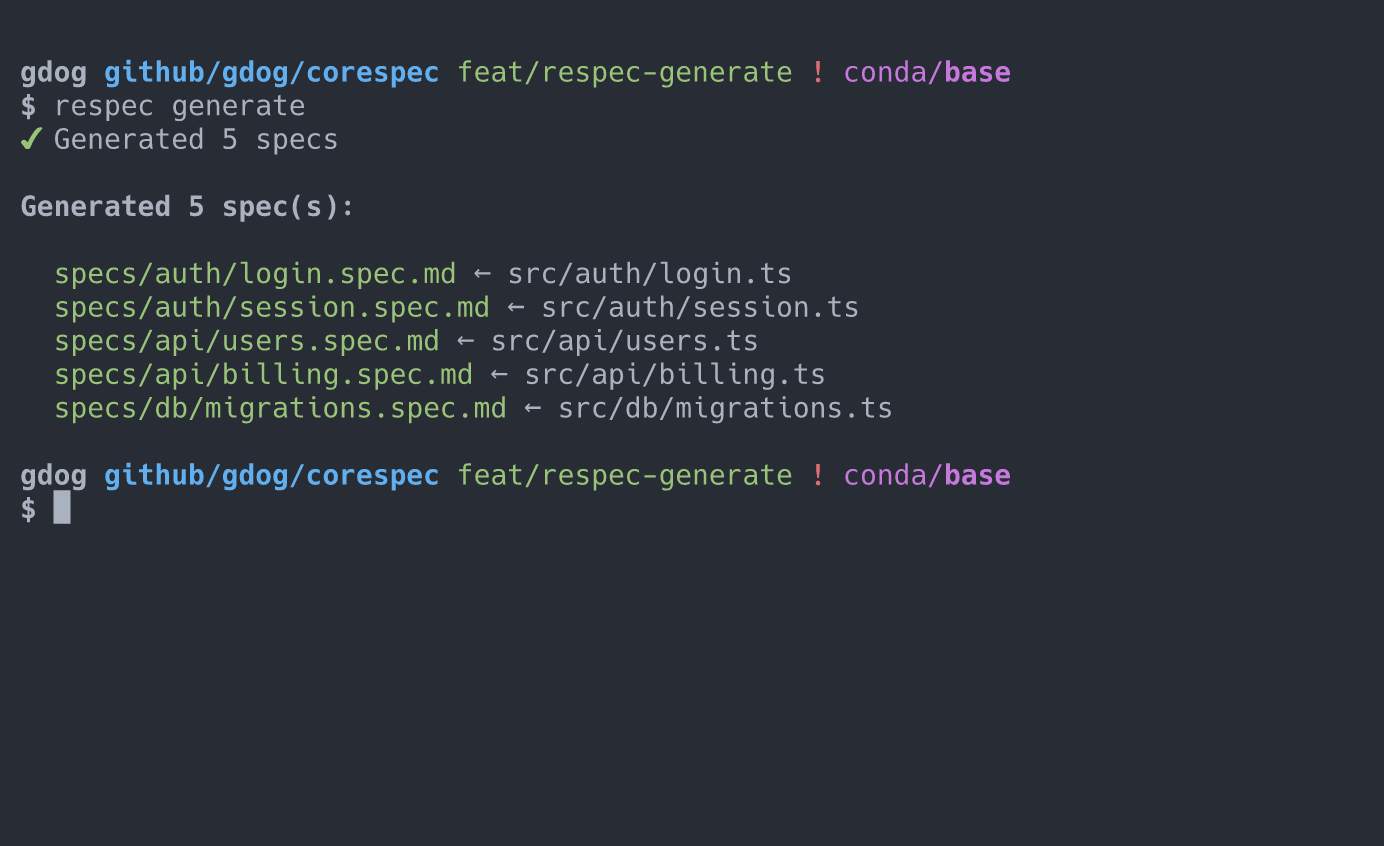
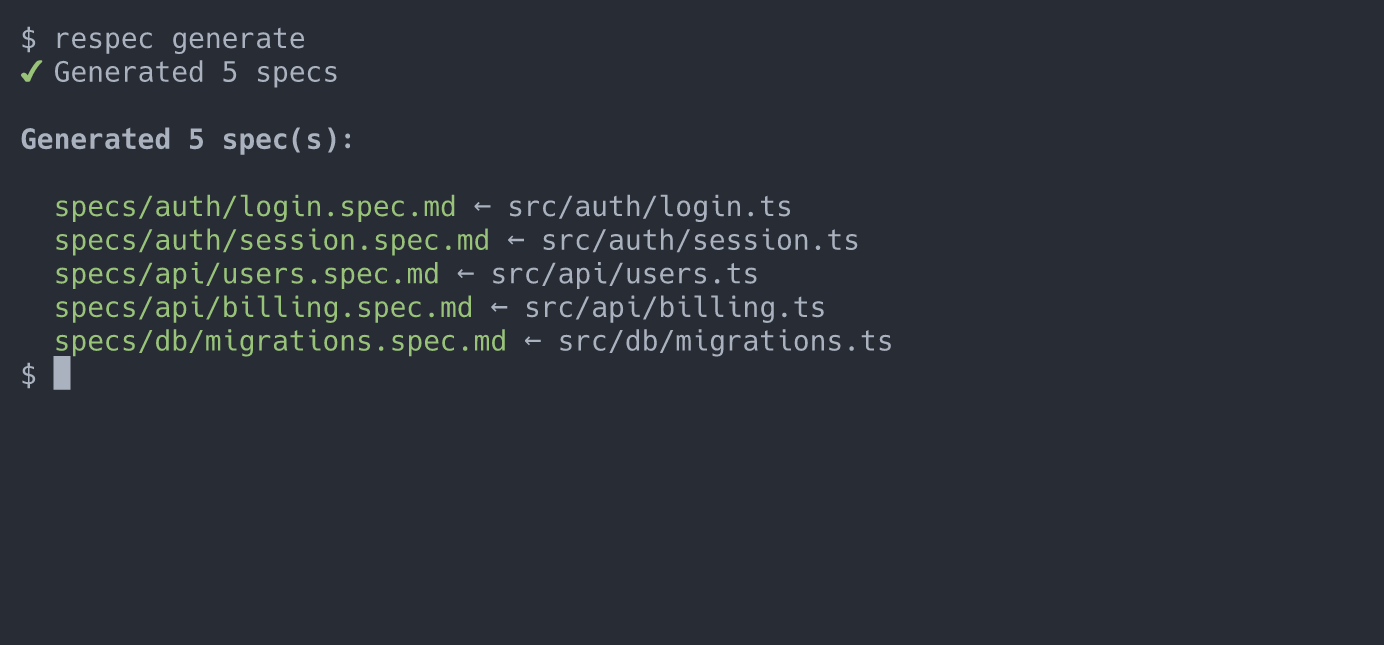
fix: strip markdown fences from LLM JSON responses, update screenshots
- judge-framework and judge-diff now strip ```json fences before parsing
  (Haiku wraps JSON despite prompt instructions)
- Retake CLI screenshots with clean `$ ` prompt (no pwd/git clutter)
- Add shellwright screenshot conventions to CLAUDE.md

Changed region(s): [[0.0, 0.3101, 0.7457, 0.6202], [0.0, 0.031, 0.7457, 0.2791]]

diff --git a/packages/corespec/src/tools/judge-framework.ts b/packages/corespec/src/tools/judge-framework.ts
@@ -34,7 +34,8 @@ export async function judgeFramework(
   config: ModelConfig,
 ): Promise<FrameworkJudgment> {
   const prompt = buildPrompt(checkResult);
-  const response = await callLLM(config, prompt);
+  const raw = await callLLM(config, prompt);
+  const response = raw.replace(/^```(?:json)?\s*\n?/gm, '').replace(/\n?```\s*$/gm, '').trim();
 
   const parsed = JSON.parse(response) as FrameworkJudgment;
 

diff --git a/packages/corespec/src/tools/judge-diff.ts b/packages/corespec/src/tools/judge-diff.ts
@@ -43,7 +43,8 @@ export async function judgeDiff(
   threshold: number,
 ): Promise<DiffJudgment> {
   const prompt = buildPrompt(framework, diff, threshold);
-  const response = await callLLM(config, prompt);
+  const raw = await callLLM(config, prompt);
+  const response = raw.replace(/^```(?:json)?\s*\n?/gm, '').replace(/\n?```\s*$/gm, '').trim();
 
   const parsed = JSON.parse(response) as DiffJudgment;
 

diff --git a/CLAUDE.md b/CLAUDE.md
@@ -29,6 +29,21 @@ make install                     # build + install CLIs globally
 - Pipeline: check-framework (heuristic) → judge-framework (LLM) → judge-diff (LLM)
 - Exit 0 = pass, exit 1 = fail
 
+## Terminal screenshots
+
+For README screenshots using shellwright, use a minimal prompt (`$ `) with no path/git info:
+
+```bash
+# Start session with minimal prompt
+export PS1='$ '
+```
+
+If the command needs to be faked (e.g. LLM calls unavailable), alias the command name:
+
+```bash
+alias respec='npx tsx scratch/demo-respec.ts'
+```
+
 ## CLI progress patterns
 
 For any CLI command that makes LLM calls or processes multiple items:
